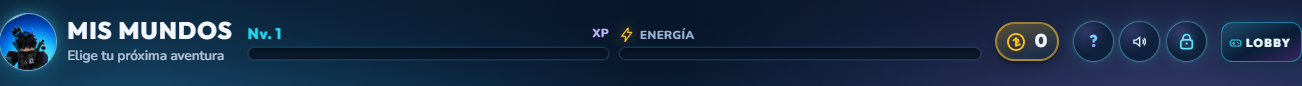
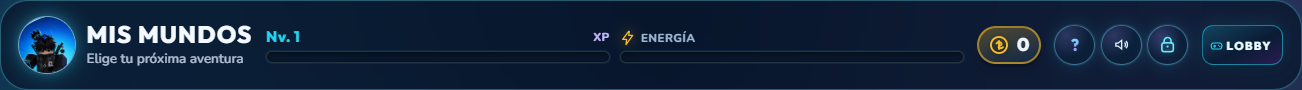
Corrige cabecera flotante e ilustraciones sin recorte en Mis mundos.
Cabecera redondeada alineada con el mapa; mundos a proporcion natural para que se lean los nombres integrados.

diff --git a/src/index.css b/src/index.css
@@ -6048,30 +6048,30 @@ a {
   }
 }
 
-/* ?? Cabecera secundaria (continuo con Lobby) ?? */
+/* Cabecera secundaria (continuo con Lobby) */
 .game-header {
   --lobby-ctrl-size: 2.55rem;
   --game-header-avatar: 56px;
   position: sticky;
-  top: 0;
+  top: calc(10px + var(--safe-top));
   z-index: 20;
   display: grid;
-  grid-template-columns: auto minmax(160px, 1.35fr) auto auto auto;
+  grid-template-columns: auto minmax(140px, 1.35fr) auto auto auto;
   grid-template-areas: 'identity bars coins actions lobby';
   align-items: center;
-  gap: 0.8rem 0.9rem;
+  gap: 0.75rem 0.85rem;
   width: 100%;
-  margin: calc(14px + var(--safe-top)) 0 1.15rem;
-  padding: 0.85rem 0 1rem;
+  margin: calc(12px + var(--safe-top)) 0 1.2rem;
+  padding: 1rem 1.15rem;
   box-sizing: border-box;
-  /* El aire superior queda fuera del velo; no parece barra pegada al borde. */
-  background: linear-gradient(
-    180deg,
-    rgba(7, 21, 40, 0.55) 0%,
-    rgba(7, 21, 40, 0.22) 68%,
-    transparent 100%
-  );
-  backdrop-filter: blur(8px);
+  border-radius: 28px;
+  border: 1px solid rgba(103, 232, 249, 0.32);
+  background: rgba(8, 22, 44, 0.78);
+  box-shadow:
+    0 10px 28px rgba(0, 8, 24, 0.32),
+    0 0 0 1px rgba(56, 189, 248, 0.08),
+    0 0 18px rgba(34, 211, 238, 0.1);
+  backdrop-filter: blur(12px);
 }
 
 .game-header__identity {
@@ -6254,8 +6254,10 @@ a {
       'identity coins actions'
       'bars bars lobby';
     gap: 0.55rem 0.5rem;
-    margin: calc(10px + var(--safe-top)) 0 0.85rem;
-    padding: 0.55rem 0 0.7rem;
+    top: calc(8px + var(--safe-top));
+    margin: calc(10px + var(--safe-top)) 0 0.95rem;
+    padding: 0.7rem 0.75rem;
+    border-radius: 22px;
   }
 
   .game-header__identity {
@@ -6340,7 +6342,7 @@ a {
   }
 }
 
-/* ?? Mis mundos: mapa de selecci?n ?? */
+/* Mis mundos: mapa de seleccion */
 .app-main:has(.world-map) {
   width: min(1500px, calc(100vw - 32px));
   padding-top: 0;
@@ -6352,13 +6354,16 @@ a {
 
 .world-map__grid {
   display: grid;
-  grid-template-columns: minmax(0, 1.7fr) minmax(0, 1fr);
-  grid-template-areas:
-    'maths languages'
-    'maths english'
-    'medi medi';
+  grid-template-columns: minmax(0, 1.65fr) minmax(0, 1fr);
   gap: 24px;
-  align-items: stretch;
+  align-items: start;
+}
+
+.world-map__side {
+  display: flex;
+  flex-direction: column;
+  gap: 24px;
+  min-width: 0;
 }
 
 .world-scene {
@@ -6371,7 +6376,7 @@ a {
   text-decoration: none;
   color: inherit;
   isolation: isolate;
-  min-height: 0;
+  line-height: 0;
   transition:
     transform 0.18s ease,
     box-shadow 0.18s ease,
@@ -6380,33 +6385,20 @@ a {
 }
 
 .world-scene--maths {
-  grid-area: maths;
-  min-height: 440px;
-}
-
-.world-scene--languages {
-  grid-area: languages;
-  min-height: 208px;
-}
-
-.world-scene--english {
-  grid-area: english;
-  min-height: 208px;
+  min-width: 0;
 }
 
 .world-scene--medi {
-  grid-area: medi;
-  min-height: 220px;
+  grid-column: 1 / -1;
 }
 
 .world-scene__art {
-  position: absolute;
-  inset: 0;
-  width: 100%;
-  height: 100%;
-  object-fit: cover;
-  object-position: center;
+  position: relative;
+  z-index: 0;
   display: block;
+  width: 100%;
+  height: auto;
+  vertical-align: top;
   pointer-events: none;
   user-select: none;
 }
@@ -6424,6 +6416,9 @@ a {
   inset: 0;
   z-index: 2;
   pointer-events: none;
+  /* Zona segura inferior para no tapar nombres integrados en la ilustración. */
+  padding: 0.85rem 0.9rem 4.25rem;
+  box-sizing: border-box;
 }
 
 .world-scene__chip {
@@ -6440,13 +6435,14 @@ a {
   font-weight: 800;
   letter-spacing: 0.06em;
   text-transform: uppercase;
+  line-height: 1.2;
 }
 
 .world-scene__progress {
   position: absolute;
   left: 0.9rem;
   right: 0.9rem;
-  bottom: 3.5rem;
+  bottom: 4.35rem;
   height: 6px;
   border-radius: 999px;
   background: rgba(5, 12, 28, 0.55);
@@ -6462,8 +6458,8 @@ a {
 
 .world-scene__cta {
   position: absolute;
-  right: 0.9rem;
-  bottom: 0.9rem;
+  right: 1rem;
+  bottom: 1rem;
   display: inline-flex;
   align-items: center;
   justify-content: center;
@@ -6531,37 +6527,36 @@ a {
 @media (max-width: 900px) {
   .world-map__grid {
     grid-template-columns: 1fr;
-    grid-template-areas:
-      'maths'
-      'languages'
-      'english'
-      'medi';
     gap: 20px;
+  }
+
+  .world-map__side {
+    display: contents;
   }
 
   .world-scene {
     border-radius: 28px;
   }
 
-  .world-scene--maths {
-    min-height: clamp(260px, 58vw, 340px);
-    aspect-ratio: 16 / 11;
+  .world-scene--medi {
+    grid-column: auto;
   }
 
-  .world-scene--languages,
-  .world-scene--english,
-  .world-scene--medi {
-    min-height: clamp(200px, 48vw, 280px);
-    aspect-ratio: 16 / 10;
+  .world-scene__ui {
+    padding-bottom: 4rem;
   }
 }
 
 @media (max-width: 390px) {
   .world-scene__cta {
-    right: 0.7rem;
-    bottom: 0.7rem;
+    right: 0.75rem;
+    bottom: 0.75rem;
     padding-inline: 0.85rem;
     font-size: 0.72rem;
+  }
+
+  .world-scene__ui {
+    padding-bottom: 3.75rem;
   }
 }
 

diff --git a/src/features/missions/WorldMap.tsx b/src/features/missions/WorldMap.tsx
@@ -31,6 +31,27 @@ const LAYOUT: Record<string, WorldSceneVariant> = {
   medi: 'wide',
 }
 
+function buildScene(
+  id: string,
+  byId: Map<string, { title: string; hasPlayable: boolean; worldPath: string; recommended?: boolean; progressPct?: number }>,
+): MapWorld {
+  const world = byId.get(id)
+  const title =
+    world?.title ??
+    (id === 'medi' ? 'Medi' : id === 'languages' ? 'Lenguas' : id === 'english' ? 'Inglés' : 'Matemáticas')
+  const available = Boolean(world?.hasPlayable)
+  return {
+    id,
+    title,
+    available,
+    path: available ? world?.worldPath : undefined,
+    recommended: world?.recommended,
+    progressPct: world?.progressPct,
+    variant: LAYOUT[id] ?? 'side',
+    imageSrc: ART[id]!,
+  }
+}
+
 export function WorldMap({
   worlds,
 }: {
@@ -44,41 +65,56 @@ export function WorldMap({
   }>
 }) {
   const byId = new Map(worlds.map((w) => [w.id, w]))
-
-  const scenes: MapWorld[] = ['maths', 'languages', 'english', 'medi'].map((id) => {
-    const world = byId.get(id)
-    const title =
-      world?.title ??
-      (id === 'medi' ? 'Medi' : id === 'languages' ? 'Lenguas' : id === 'english' ? 'Inglés' : 'Matemáticas')
-    const available = Boolean(world?.hasPlayable)
-    return {
-      id,
-      title,
-      available,
-      path: available ? world?.worldPath : undefined,
-      recommended: world?.recommended,
-      progressPct: world?.progressPct,
-      variant: LAYOUT[id] ?? 'side',
-      imageSrc: ART[id]!,
-    }
-  })
+  const maths = buildScene('maths', byId)
+  const languages = buildScene('languages', byId)
+  const english = buildScene('english', byId)
+  const medi = buildScene('medi', byId)
 
   return (
     <section className="world-map" aria-label="Selección de mundos">
       <div className="world-map__grid">
-        {scenes.map((scene) => (
+        <WorldScene
+          id={maths.id}
+          title={maths.title}
+          imageSrc={maths.imageSrc}
+          available={maths.available}
+          path={maths.path}
+          recommended={maths.recommended}
+          progressPct={maths.progressPct}
+          variant={maths.variant}
+        />
+        <div className="world-map__side">
           <WorldScene
-            key={scene.id}
-            id={scene.id}
-            title={scene.title}
-            imageSrc={scene.imageSrc}
-            available={scene.available}
-            path={scene.path}
-            recommended={scene.recommended}
-            progressPct={scene.progressPct}
-            variant={scene.variant}
+            id={languages.id}
+            title={languages.title}
+            imageSrc={languages.imageSrc}
+            available={languages.available}
+            path={languages.path}
+            recommended={languages.recommended}
+            progressPct={languages.progressPct}
+            variant={languages.variant}
           />
-        ))}
+          <WorldScene
+            id={english.id}
+            title={english.title}
+            imageSrc={english.imageSrc}
+            available={english.available}
+            path={english.path}
+            recommended={english.recommended}
+            progressPct={english.progressPct}
+            variant={english.variant}
+          />
+        </div>
+        <WorldScene
+          id={medi.id}
+          title={medi.title}
+          imageSrc={medi.imageSrc}
+          available={medi.available}
+          path={medi.path}
+          recommended={medi.recommended}
+          progressPct={medi.progressPct}
+          variant={medi.variant}
+        />
       </div>
     </section>
   )
